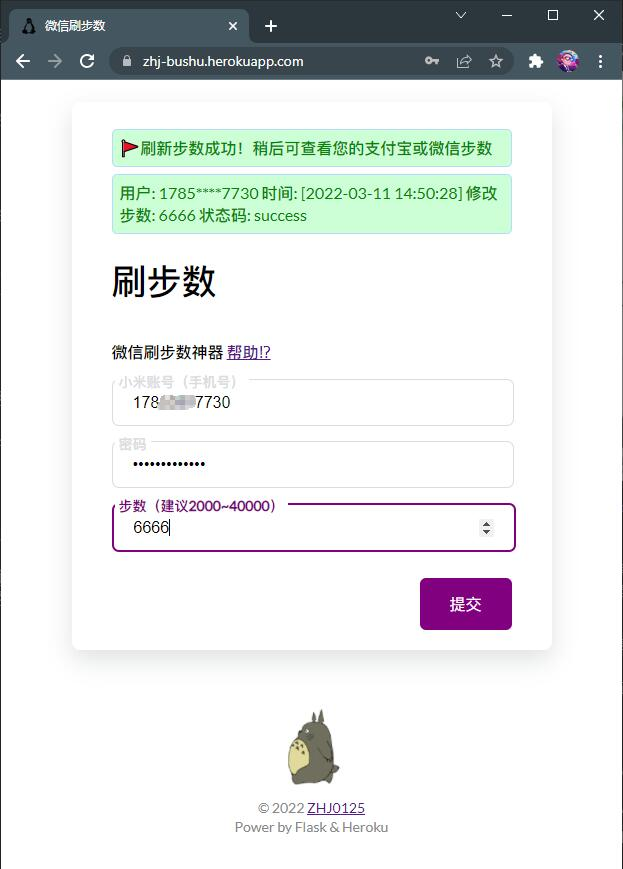
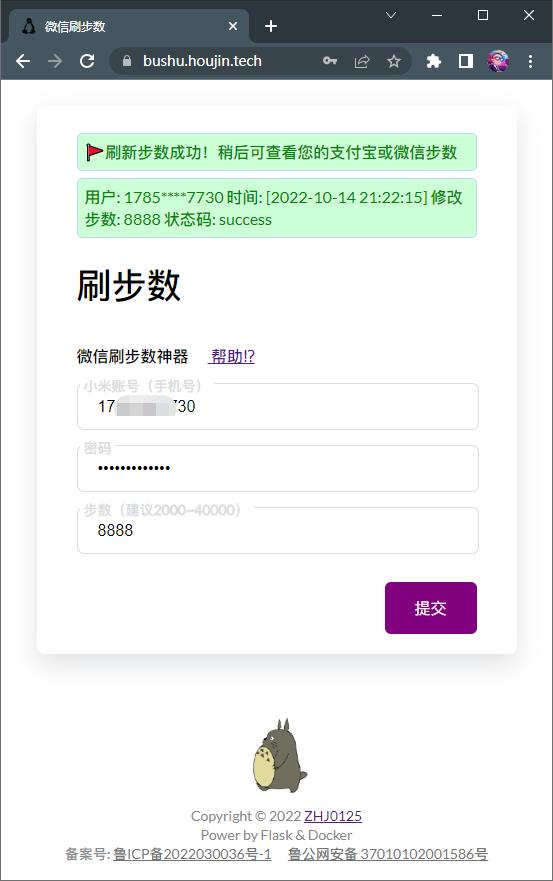
Update README and Docs

diff --git a/docs/DevManual.md b/docs/DevManual.md
@@ -8,33 +8,34 @@
 
 * 核心代码使用[方块君](https://github.com/577fkj) 大佬的 [mimotion](https://github.com/577fkj/mimotion) 项目
 * Web 界面使用 [Flask](https://github.com/pallets/flask) 框架
-* 网页使用 [Docker](https://hub.docker.com/repository/docker/zhj0125/bushu) 驱动
+* 网页由运行在腾讯云的 [Docker](https://hub.docker.com/repository/docker/zhj0125/bushu) 驱动
 * 源代码托管在 [GitHub](https://github.com/ZHJ0125/bushu) 平台
 
 ## 2. 如何构建本项目
 
-> 提示：快速上手可参考 `2.3.2 从 DockerHub 拉取镜像并运行`
+> ✔ 提示 1：快速上手可参考 `2.3.2 从 DockerHub 拉取镜像并运行`<br>
+> ⚠ 提示 2：在服务器上运行时需要开放对应端口的防火墙
 
 您可以尝试使用以下三种方式运行本项目，三种方式要求的环境如下：
 
 1. 使用 Python Venv 虚拟环境
-    * 建议使用 Linux 系统
-    * Python3.x 版本
-2. 使用 Heroku 方式托管网页 - Heroku 分支（不再维护，不需要服务器）
+    * 建议使用 Linux 系统（Windows环境需要解决fcntl问题）
+    * 安装 Python3.x 版本
+2. 使用 Heroku 方式托管网页 - 属于 Heroku 分支（目前不再维护，此方式不需要服务器）
     * 需要拉取 Heroku 分支的代码
     * 建议使用 Windows 系统
-    * Python3.x 版本
-3. 使用 Docker 方式驱动网页 - main 主分支（推荐方式，但需要服务器）
-    * 建议使用 Linux 系统
+    * 安装 Python3.x 版本
+3. 使用 Docker 方式驱动网页 - main 主分支（推荐此方式，但需要服务器）
+    * 建议使用 Linux 系统（Windows环境需要解决fcntl问题）
     * 需要已安装 Docker
     * Python3.x 版本
 
 ### 2.1 使用 Python Venv 虚拟环境
 
-1. 克隆本项目(以Linux环境为例)
+1. 克隆本项目（以 Linux 环境为例）
 
 ```bash
-# 打开CMD命令行，克隆本项目
+# 打开终端，克隆本项目
 zhj@ubuntu:~$ git clone https://github.com/ZHJ0125/bushu.git
 Cloning into 'bushu'...
 remote: Enumerating objects: 137, done.
@@ -74,7 +75,6 @@ zhj@ubuntu:~/bushu$ source env/bin/activate
 (env) zhj@ubuntu:~/bushu$ 
 # 在env环境中更新其pip版本
 (env) zhj@ubuntu:~/bushu$ python -m pip install -i https://pypi.tuna.tsinghua.edu.cn/simple --upgrade pip
-Cache entry deserialization failed, entry ignored
 Collecting pip
   Using cached https://pypi.tuna.tsinghua.edu.cn/packages/1f/2c/d9626f045e7b49a6225c6b09257861f24da78f4e5f23af2ddbdf852c99b8/pip-22.2.2-py3-none-any.whl
 Installing collected packages: pip
@@ -82,7 +82,7 @@ Installing collected packages: pip
     Uninstalling pip-9.0.1:
       Successfully uninstalled pip-9.0.1
 Successfully installed pip-22.2.2
-# 将项目依赖添加到虚拟环境中，此过程需要联网下载依赖项
+# 将项目依赖添加到虚拟环境中
 (env) zhj@ubuntu:~/bushu$ pip install -r app/requirements.txt -i https://pypi.tuna.tsinghua.edu.cn/simple
 # 列出已下载的依赖项，如下所示
 (env) zhj@ubuntu:~/bushu$ pip list
@@ -119,7 +119,7 @@ zope.interface     5.4.0
 3. 本地运行此项目
 
 ```bash
-# 本地运行此本项目
+# 本地运行此本项目（注意要在 env 环境下运行）
 (env) zhj@ubuntu:~/bushu$ gunicorn -c gunicorn.conf.py --chdir ./app main:app
 [2022-10-15 04:12:41 +0800] [59299] [INFO] Starting gunicorn 20.1.0
 [2022-10-15 04:12:41 +0800] [59299] [INFO] Listening at: http://0.0.0.0:8103 (59299)
@@ -133,21 +133,21 @@ zope.interface     5.4.0
 
 ### 2.2 使用 Heroku 方式托管网页
 
-⚠ 注：Heroku方式已从主分支剥离，若使用Heroku托管，请转至 [Heroku 分支](https://github.com/ZHJ0125/bushu/tree/heroku) 了解详情。
+⚠ 注：Heroku方式已从主分支剥离，若要使用Heroku托管方式，请转至 [Heroku 分支](https://github.com/ZHJ0125/bushu/tree/heroku) 了解详情。
 
 ### 2.3 使用 Docker 方式驱动网页
 
-Dockerfile是用来创建Docker镜像的脚本，本项目提供Dockerfile文件进行镜像构建；
-DockerHub是专门托管Docker镜像的平台，本项目中所使用的镜像也已经上传到了DockerHub中；
+* Dockerfile 是用来创建 Docker 镜像的文件，本项目提供 Dockerfile 文件进行镜像构建；
+* DockerHub 是专门托管 Docker 镜像的平台，本项目中所使用的镜像也已经上传到了 DockerHub 中；
 
-因此您可以选择自己构建Docker镜像或者直接从DockerHub拉取镜像两种方式。
+因此您可以选择自己构建 Docker 镜像或者直接从 DockerHub 拉取镜像两种方式。
 
 #### 2.3.1 从 Dockerfile 构建镜像并运行
 
-1. 克隆本项目(主分支+Linux服务器环境为例)
+1. 克隆本项目（主分支+ Linux 服务器环境为例）
 
 ```bash
-# 打开CMD命令行，克隆本项目
+# 打开终端，克隆本项目
 zhj@ubuntu:~$ git clone https://github.com/ZHJ0125/bushu.git
 Cloning into 'bushu'...
 remote: Enumerating objects: 137, done.
@@ -176,9 +176,11 @@ drwxrwxr-x  8 zhj zhj 4096 Oct 15 03:50 .git
 
 ```bash
 # 检查 Docker 版本，若未安装请自行安装
+# Docker 安装过程可参考清华大学开源软件镜像站帮助文档：
+# https://mirrors.tuna.tsinghua.edu.cn/help/docker-ce/
 zhj@ubuntu:~/bushu$ docker -v
 Docker version 20.10.18, build b40c2f6
-# 构建 Docker 镜像
+# 构建 Docker 镜像（确保在 bushu 根目录下，此路径下有 Dockerfile 文件）
 zhj@ubuntu:~/bushu$ docker build -t "bushu:v0.1" .
 Sending build context to Docker daemon  684.5kB
 Step 1/9 : FROM python:3.7
@@ -214,28 +216,22 @@ Removing intermediate container 7aeac3683b6d
  ---> bf6b68080e40
 Successfully built bf6b68080e40
 Successfully tagged bushu:v0.1
-# 启动docker，运行容器
+# 启动 Docker，运行容器
 # 注1：以下命令为后台运行该容器
-# 注2：8000端口为本机映射端口，可修改；8103为docker内部端口，不要修改
-zhj@ubuntu:~/bushu$ docker run -it -d -p 8103:8000 bushu:v0.1
+# 注2：8000端口为本机映射端口，可修改为其他端口；8103为 Docker 内部端口，不要修改
+# 注3：更多关于 Docker 命令参数说明请查阅 Docker 文档：https://docs.docker.com/
+zhj@ubuntu:~/bushu$ docker run -it -d -p 8000:8103 bushu:v0.1
[1 lines of base64/hex data omitted]
-# 运行后访问 http://服务器公网IP:8000 即可
+# 运行后访问 http://服务器IP:8000 即可
 ```
-
-⚠ 注：需要注意的是，当您在非服务器环境下使用 docker 时，如在虚拟机上安装 docker 并执行 `2.3 使用 Docker 方式驱动网页`，需要在运行 docker 容器时指定容器网络为 host 模式，即：
-
-```bash
-# 在虚拟机上运行容器
-zhj@ubuntu:~/bushu$ docker run -it --net=host -d -p 8103:8000 bushu:v0.1
-```
-
-此时创建出来的容器，直接使用容器宿主机的网络命名空间，使用宿主机的ip和端口。因此访问 http://宿主机IP:8103 即可。
 
 #### 2.3.2 从 DockerHub 拉取镜像并运行
 
+> 在已安装 Docker 的环境下，此方式最为简单，只需 2 条命令即可部署完成。
+
 ```bash
-# 拉取镜像
-zhj@ubuntu:~/bushu$ docker pull zhj0125/bushu
+# 1. 拉取镜像
+zhj@ubuntu:~$ docker pull zhj0125/bushu
 Using default tag: latest
 latest: Pulling from zhj0125/bushu
 f606d8928ed3: Already exists 
@@ -254,10 +250,11 @@ bb3d159899fa: Pull complete
 Digest: sha256:d0fcf92f9a6619e2c3c998d006ba0abbc389b657a425da41cef1f00f28bb8455
 Status: Downloaded newer image for zhj0125/bushu:latest
 docker.io/zhj0125/bushu:latest
-# 运行容器
-zhj@ubuntu:~/bushu$ docker run -it -d -p 8103:8103 zhj0125/bushu
[1 lines of base64/hex data omitted]
-# 访问 http://ip:8103 即可
+# 2. 运行容器
+# 注：8080端口为本机映射端口，可修改为其他端口；8103为 Docker 内部端口，不要修改
+zhj@ubuntu:~$ docker run -it -d -p 8080:8103 zhj0125/bushu
[1 lines of base64/hex data omitted]
+# 3. 访问 http://ip:8080 即可
 ```
 
 ## 项目代码梳理
@@ -270,14 +267,14 @@ zhj@ubuntu:~/bushu$ docker run -it -d -p 8103:8103 zhj0125/bushu
 │   ├── main.py            // 主程序
 │   ├── requirements.txt   // 依赖文件
 │   ├── static             // 图片等静态文件
-│   └── templates          // HTML网页
-├── Dockerfile             // 用于构建Docker镜像
+│   └── templates          // HTML 网页文件夹
+├── Dockerfile             // 用于构建 Docker 镜像
 ├── docs
 │   ├── DevLog.md          // 开发日志
 │   ├── DevManual.md       // 开发手册
 │   ├── show.jpg           // 展示图片
 │   └── UserManual.md      // 使用手册
-├── gunicorn.conf.py       // gunicorn配置文件
+├── gunicorn.conf.py       // gunicorn 配置文件
 └── README.md
 ```
 
@@ -289,9 +286,9 @@ zhj@ubuntu:~/bushu$ docker run -it -d -p 8103:8103 zhj0125/bushu
 * [HelloFlask Meta Github](https://github.com/greyli/helloflask)
 * [Flask Project Document](https://flask.palletsprojects.com/en/2.0.x/)
 * [Flask-WTF Document](https://flask-wtf.readthedocs.io/en/latest/quickstart/)
-* [Getting Started on Heroku with Python](https://devcenter.heroku.com/articles/getting-started-with-python)
+* [Docker Docs - Dockerfile reference](https://docs.docker.com/engine/reference/builder/)
+* [Docker Community Edition 镜像使用帮助](https://mirrors.tuna.tsinghua.edu.cn/help/docker-ce/)
 * [使用 HTML 和 CSS 构建一个注册表单](https://chinese.freecodecamp.org/news/how-to-build-sign-up-form-with-html-and-css/)
-* [Heroku 部署 Flask 项目过程](https://wakingup.herokuapp.com/post/1/Heroku%E9%83%A8%E7%BD%B2Flask%E9%A1%B9%E7%9B%AE%E8%BF%87%E7%A8%8B)
 
 ---
 

diff --git a/docs/UserManual.md b/docs/UserManual.md
@@ -21,11 +21,13 @@
 
 ### 开刷
 
+**⚠ 注意：开刷之前务必开启手机运动健康(步数)权限，以使手机获取到华米(小米)运动所提供的运动健康(步数)数据，否则步数将同步失败！**
+
 * 打开本项目网页：[https://bushu.houjin.tech/](https://bushu.houjin.tech/)
 * 依次输入`小米账号`、`密码`和要刷到的`步数`（***步数要小于4万***）
 * 点击 `提交` 按钮即可（刷步数成功或失败都会有提示）
 
-> 请不要频繁刷步数，若过于频繁地刷步数，有可能导致您的账号被封。
+> ⚠ 注意：请不要频繁刷步数，若过于频繁地刷步数，有可能导致您的账号被封。
 
 ## Q&A
 
@@ -41,9 +43,9 @@
 
 ### 会被封号？
 
-大家可能会有疑问：刷步数会不会导致我的账号被封？如果您过于频繁地刷步数，我觉得会被封！
+如果您过于频繁地刷步数，您的华米(小米)账号是有可能会被封的！
 
-是这样的，由于华米官方API的请求数据中，需要包括地理位置、步数、运动时间、设备ID等多种类型的数据，而在 [mimotion](https://github.com/577fkj/mimotion) 项目中，会伪造一些地理位置数据，将其打包发送至API接口。
+由于华米官方API的请求数据中，需要包括地理位置、步数、运动时间、设备ID等多种类型的数据，而在 [mimotion](https://github.com/577fkj/mimotion) 项目中，会伪造一些地理位置数据，将其打包发送至API接口。
 
 因此，有可能官方API接口会检测到**过于频繁的重复数据**，导致您的账号被封。
 
@@ -51,15 +53,18 @@
 
 ### 为什么做这个项目？
 
-闲着没事做着玩的😂
+<details>
+<summary>闲着没事做着玩的😂</summary>
 
 前几天在 Telegram 的 [Shadowrocket](https://t.me/ShadowrocketApp) 官方群，有个大佬发了一个刷步数的iOS快捷指令，我试了试，居然真的可以刷步数，当时挺惊喜的。
 
 后来搜了一下，原来网上有好多刷步数的教程、网站，比较出名的比如 [https://bushu.wang/](https://bushu.wang/)，以及这个[快捷指令](https://www.icloud.com/shortcuts/a759d3db3f9b4d24a318a343400f7b54)。总之，网上已经有很多类似项目了。
 
-后来我在GitHub上找到了 [方块君](https://github.com/577fkj) 大佬的 [mimotion](https://github.com/577fkj/mimotion) 项目，这个项目使用python写的，只写了核心的请求代码，没有图形化界面。对比一下 [https://bushu.wang/](https://bushu.wang/)，总觉得 mimotion 有些简陋。于是，我开始在网上查找资料，想要为 mimotion 写一个图形(web)界面。
+后来我在GitHub上找到了 [方块君](https://github.com/577fkj) 大佬的 [mimotion](https://github.com/577fkj/mimotion) 项目，这个项目使用python写的，只写了核心的请求代码，没有图形化界面。对比一下 [https://bushu.wang/](https://bushu.wang/)，总觉得 mimotion 有些简陋。于是，我开始在网上查找资料，想依赖 mimotion 的核心代码写一个图形界面。
 
 几天后，就有了本项目。
+
+</details>
 
 ---
 
@@ -72,5 +77,5 @@
 ## 开源协议
 
 * 本项目使用 [GNU General Public License v3.0](https://github.com/ZHJ0125/bushu/blob/main/LICENSE)  开源许可协议
-* Gitee地址：https://gitee.com/zhj0125/bushu
 * GitHub地址：https://github.com/ZHJ0125/bushu
+* Gitee地址：https://gitee.com/zhj0125/bushu

diff --git a/docs/DevLog.md b/docs/DevLog.md
@@ -1,23 +1,28 @@
 # bushu 更新日志
 
-* 2022年10月15日
-    * :no_entry: 取消Heroku网站托管，改由腾讯云服务器+Docker部署网站
-    * :radio_button: 更改本项目网站域名为`bushu.houjin.tech`
-    * :heavy_check_mark: 新增项目日志文件
-    * :heavy_check_mark: 新增Docker部署方式及说明文档，发布[本项目docker镜像](https://hub.docker.com/repository/docker/zhj0125/bushu)
-* 2022年04月04日
-    * :heavy_check_mark: 增加Flask-Learn分支
-* 2022年03月21日
-    * :radio_button: 解决项目内容违规问题
-* 2022年03月12日
-    * :heavy_check_mark: 增加Flask_SSLify模块
-* 2022年03月11日
-    * :radio_button: 表格改为使用Flask-WTF框架
-    * :heavy_check_mark: 增加项目说明文档
-    * :heavy_check_mark: 网站部署到Heroku平台
-* 2022年03月10日
-    * :heavy_check_mark: 首次上传代码，完成前端框架
+> :heavy_check_mark: 增加
+> :radio_button: 修改
+> :no_entry: 删除
 
-:no_entry:  删除
-:heavy_check_mark:  增加
-:radio_button:   修改
+* 2022年10月15日
+    * :radio_button:        修复说明文档中的错误
+    * :radio_button:        修复 Docker 端口映射问题
+    * :no_entry:            删除 Flask_SSLify 模块，使用 Nginx(NPM) 强制 SSL
+* 2022年10月14日
+    * :heavy_check_mark:    新增项目日志文件
+    * :heavy_check_mark:    新增 Docker 部署方式及说明文档，发布[本项目docker镜像](https://hub.docker.com/repository/docker/zhj0125/bushu)
+    * :radio_button:        项目文件结构调整以适配 Docker 部署方式
+    * :radio_button:        更改本项目网站域名为 `bushu.houjin.tech`
+    * :no_entry:            取消 Heroku 网站托管，改由腾讯云服务器+ Docker 部署网站
+* 2022年04月04日
+    * :heavy_check_mark:    增加 Flask-Learn 分支用于保存 Flask 框架学习过程
+* 2022年03月21日
+    * :radio_button:        解决项目内容违规问题
+* 2022年03月12日
+    * :heavy_check_mark:    增加 Flask_SSLify 模块以提高安全性
+* 2022年03月11日
+    * :heavy_check_mark:    增加项目说明文档
+    * :heavy_check_mark:    网站部署到 Heroku 平台
+    * :radio_button:        表格改为使用 Flask-WTF 框架
+* 2022年03月10日
+    * :heavy_check_mark:    首次上传代码，完成前端框架

diff --git a/README.md b/README.md
@@ -2,7 +2,7 @@
 
 > ‼ 声明：本项目仅供娱乐及学习交流使用
 
-![show](docs/show.jpg)
+<img width="450" height="715" src="docs/show.jpg">
 
 ⚠ 提示：请在下午或晚上时间段刷步数，深夜凌晨可能会运行失败。
 
@@ -12,10 +12,19 @@
 
 顾名思义，本项目就是来帮助你躺着刷步数的。经测试，目前可以同步修改步数至 `微信运动` 和 `支付宝运动`。
 
-* 如果您是使用者，想快速实现刷步数，请阅读[用户手册](docs/UserManual.md)
-* 如果您是开发者，想了解本项目如何运行，请阅读[开发手册](docs/DevManual.md)
+* 如果您是使用者，想快速体验刷步数，请阅读[用户手册](docs/UserManual.md)
+* 如果您是开发者，想了解本项目如何运行以及如何自行部署，请阅读[开发手册](docs/DevManual.md)
 * 如果您想了解我在入门 Flask 时编写的代码，请转至 [Flask-Learn](https://github.com/ZHJ0125/bushu/tree/Flask-Learn) 分支
-* 本项目主分支使用Docker方式驱动网页，旧代码使用Heroku方式部署网页但不再维护，您可以转至 [Heroku](https://github.com/ZHJ0125/bushu/tree/heroku) 分支了解详情
+* 本项目主分支使用 Docker 方式驱动网页，旧代码曾使用 Heroku 方式部署网页但目前不再维护，您可以转至 [Heroku](https://github.com/ZHJ0125/bushu/tree/heroku) 分支了解详情
+
+### 快速部署
+
+本项目使用 Dockerfile 构建，镜像已上传至 DockerHub。使用以下两行代码即可在已安装 Docker 的主机上快速运行本项目，访问本机8080端口即可查看服务。
+
+```bash
+$ docker pull zhj0125/bushu
+$ docker run -it -d -p 8080:8103 zhj0125/bushu
+```
 
 ### 依赖项目
 
@@ -26,5 +35,5 @@
 ### 开源协议
 
 * 本项目使用 [GNU General Public License v3.0](https://github.com/ZHJ0125/bushu/blob/main/LICENSE) 开源许可协议
-* Gitee地址：https://gitee.com/zhj0125/bushu （用户手册已被ban）
 * GitHub地址：https://github.com/ZHJ0125/bushu
+* Gitee地址：https://gitee.com/zhj0125/bushu
